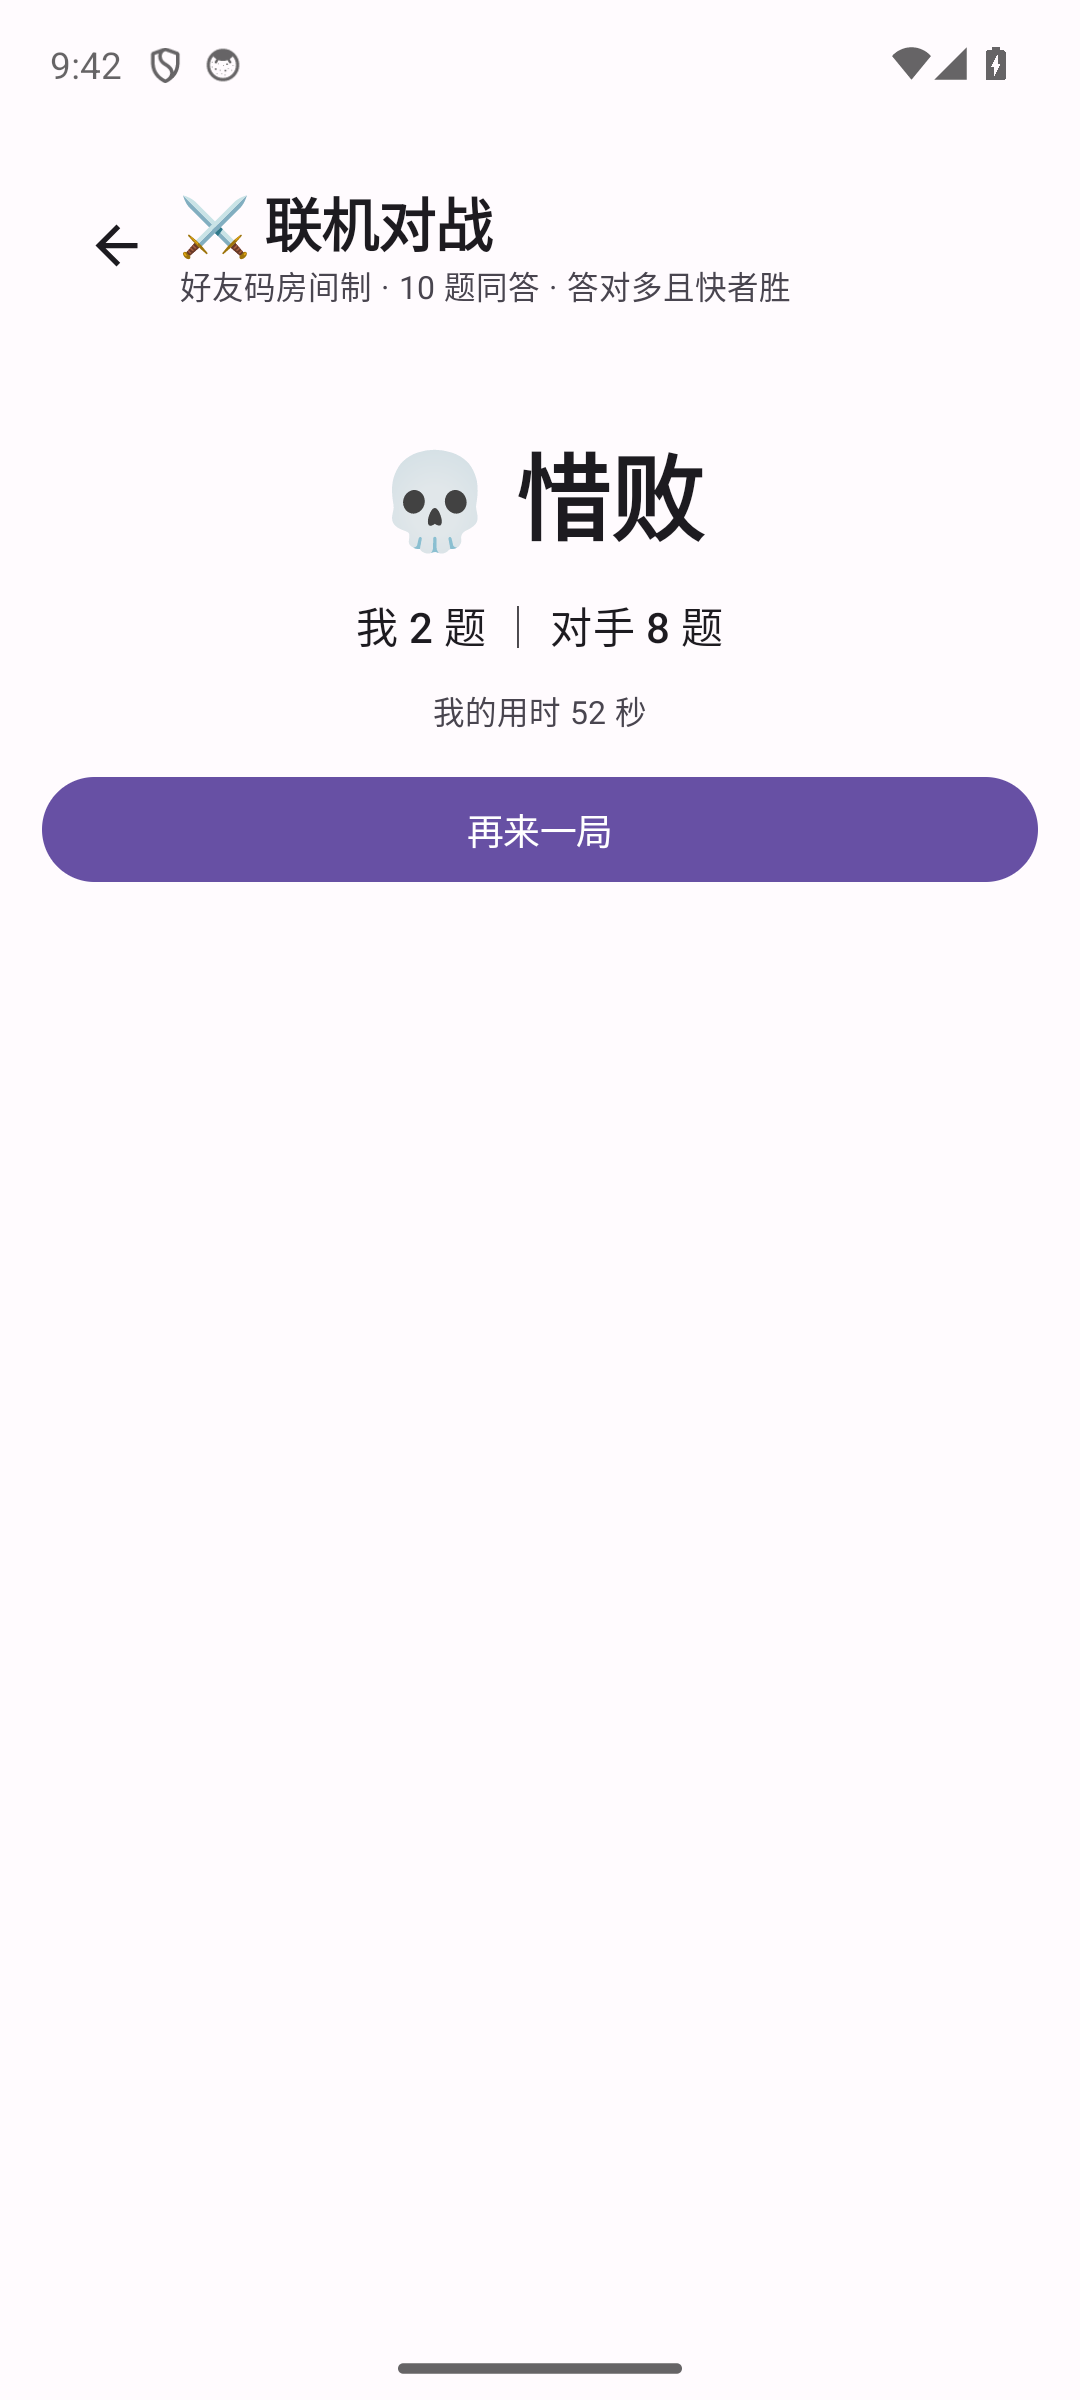
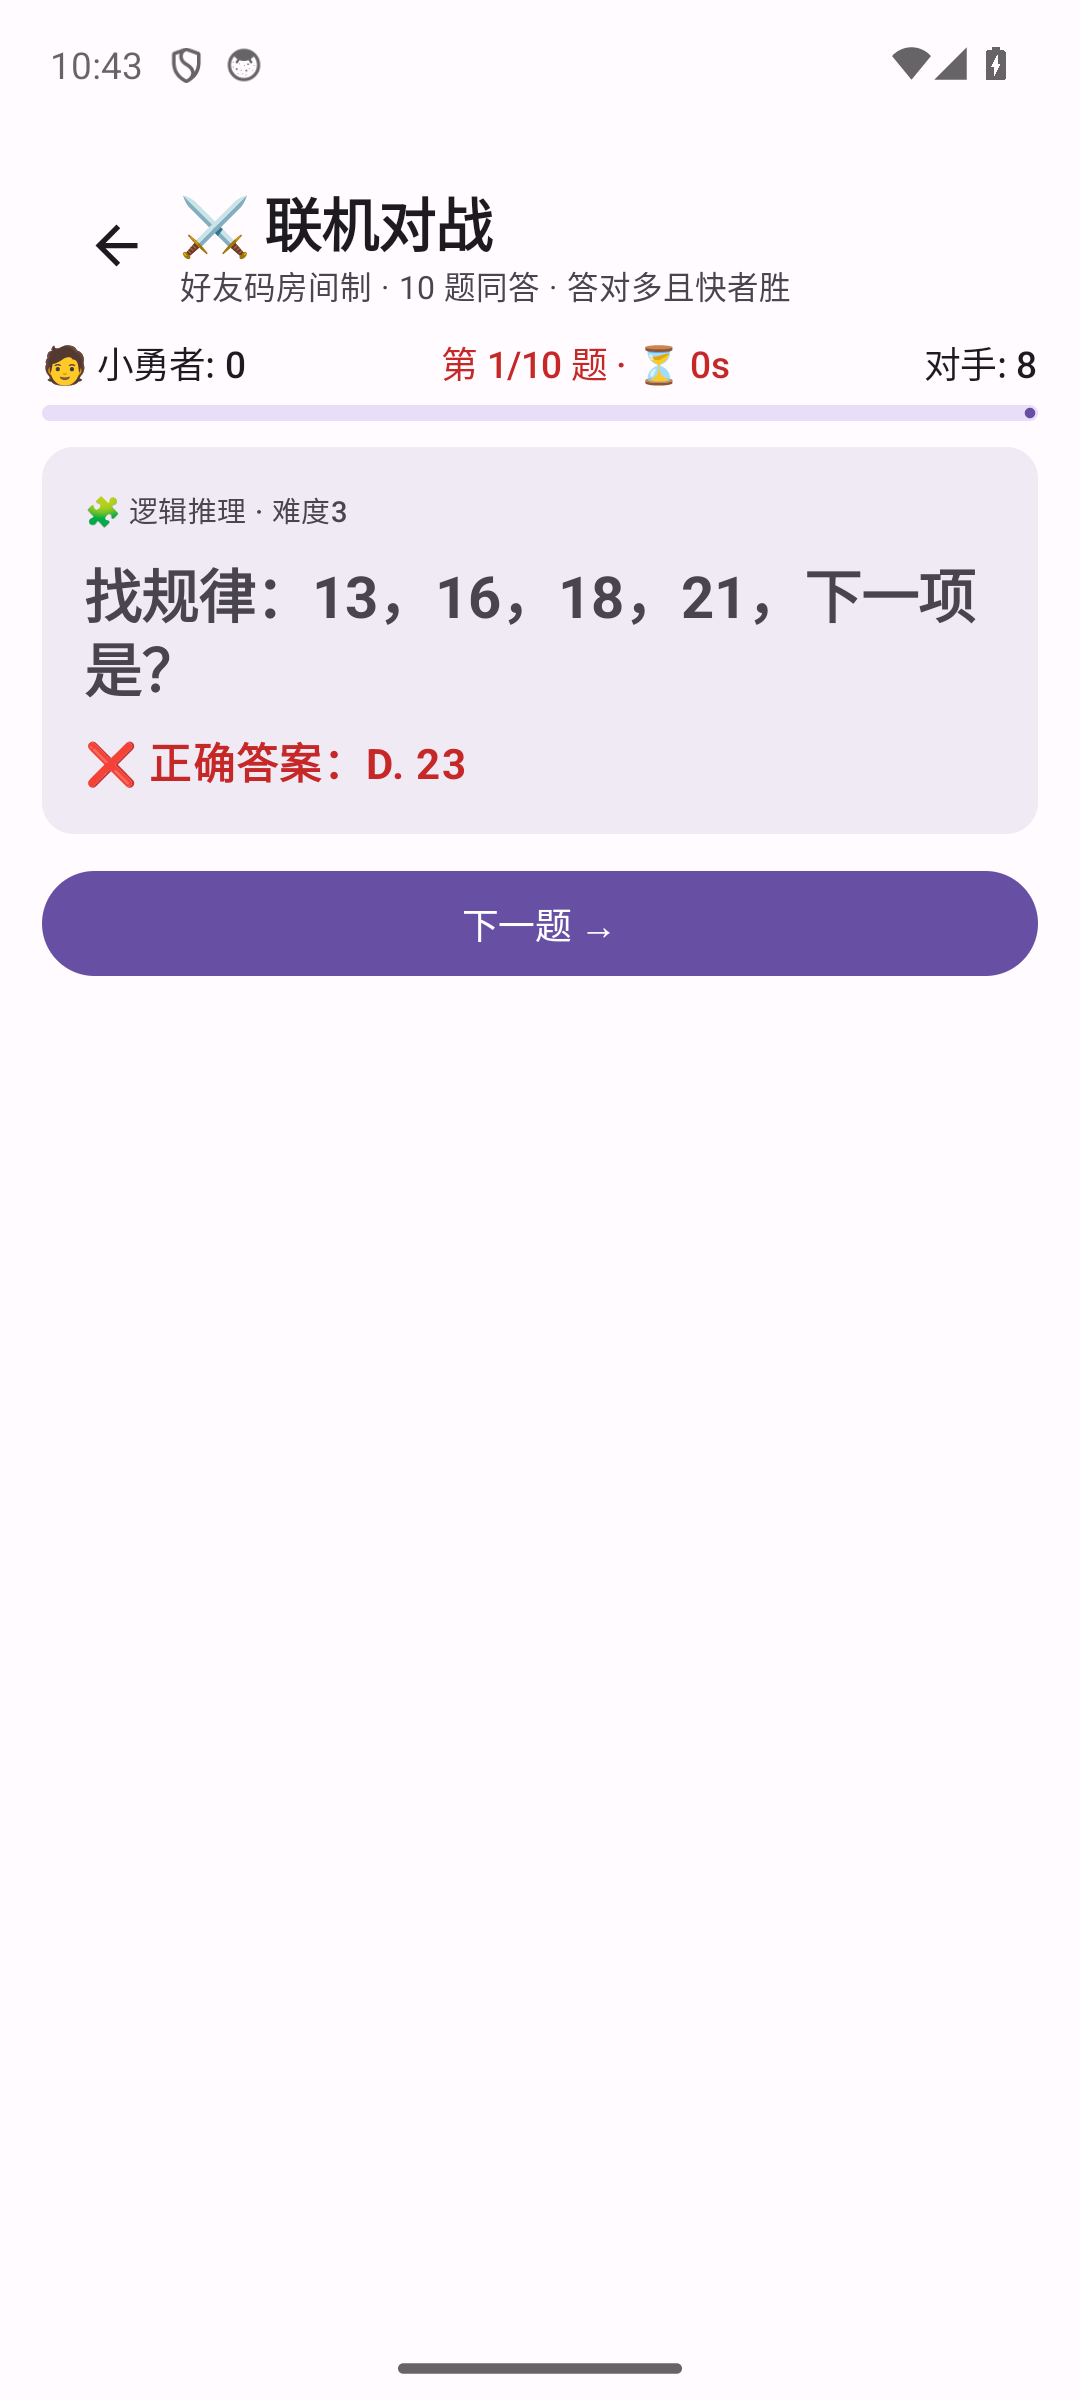
feat: v1.5.1 乙方匹配确认页修复 + 匹配页上下布局 + 阿里云部署上线
- 修复：乙方（加入方）Joined 事件误入 waiting 阶段导致无准备按钮
  → 同样进入 matched 确认页
- 匹配页上下布局：甲方（房主）卡在上、乙方（挑战者）卡在下，
  各带实时准备状态（✓/⏳），VS 居中
- PkClient 解析 ready（房主/乙方互发皆视为对方已准备）
- start 仅房主发送（joinedAsGuest 守卫防乙方重复发题）
- 阿里云轻量服务器部署上线（ws://8.148.192.129:8765，systemd 常驻），
  外网创建/加入/对战全链路实测通过；tools/deploy_pk_server.py 一键部署脚本
- 发版工具链：clean 构建消除 zipflinger 死空间（16.9→3.77MB）

diff --git a/tools/deploy_pk_server.py b/tools/deploy_pk_server.py
@@ -1,0 +1,58 @@
+"""一键部署 pk_server.py 到阿里云服务器（SSH）"""
+import paramiko
+
+HOST, USER, PWD = '8.148.192.129', 'root', 'Llubuntu94%'
+
+c = paramiko.SSHClient()
+c.set_missing_host_key_policy(paramiko.AutoAddPolicy())
+c.connect(HOST, username=USER, password=PWD, timeout=15)
+
+
+def run(cmd, label=''):
+    _, out, err = c.exec_command(cmd, timeout=300)
+    code = out.channel.recv_exit_status()
+    o, e = out.read().decode(), err.read().decode()
+    print(f'[{label or cmd[:40]}] exit={code}')
+    if o.strip():
+        print('  ', o.strip()[-400:])
+    if e.strip() and code != 0:
+        print('  ERR:', e.strip()[-300:])
+    return code
+
+
+# 1. 依赖
+run('apt-get update -qq && apt-get install -y -qq python3 python3-pip > /dev/null 2>&1 || pip3 install websockets', 'install pip')
+run('pip3 install websockets --break-system-packages 2>/dev/null || pip3 install websockets', 'websockets')
+
+# 2. 上传 pk_server.py
+sftp = c.open_sftp()
+run('mkdir -p /opt/pk', 'mkdir')
+sftp.put('update-server/pk_server.py', '/opt/pk/pk_server.py')
+print('[upload] pk_server.py OK')
+sftp.close()
+
+# 3. systemd 服务（含 websockets 路径探测）
+unit = '''[Unit]
+Description=BrainQuest PK WebSocket Server
+After=network.target
+
+[Service]
+Type=simple
+WorkingDirectory=/opt/pk
+ExecStart=/bin/bash -c 'python3 /opt/pk/pk_server.py 8765'
+Restart=always
+RestartSec=3
+User=root
+
+[Install]
+WantedBy=multi-user.target
+'''
+run('echo \'%s\' > /etc/systemd/system/pk-server.service' % unit.replace("'", "'\\''"), 'unit file')
+run('systemctl daemon-reload && systemctl enable --now pk-server', 'enable+start')
+
+# 4. 验证
+import time
+time.sleep(2)
+run('systemctl is-active pk-server && ss -tlnp | grep 8765', 'verify')
+c.close()
+print('部署完成')
